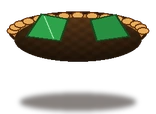
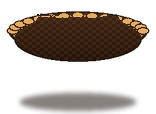
Gerai Wirayung: remove hanging sign, empty basket sits on the counter (#98)
The hanging Wirayung sign covered Wira's head; it is gone. The basket
back art had a green cloth inside that read as items before anything
was picked; its inside is now plain weave. The basket now rests on the
counter top instead of sinking into it, and is a little smaller on
short screens so it clears Wira's face.

Claude-Session: https://claude.ai/code/session_01NDkK8jKpLro5Z4Nutr1Mm2

diff --git a/gerai-wirayung.html b/gerai-wirayung.html
@@ -55,11 +55,6 @@ button:focus-visible{outline:3px solid var(--ice);outline-offset:2px}
 .tint{position:absolute;inset:0;pointer-events:none;mix-blend-mode:multiply;transition:background 1.2s,opacity 1.2s}
 .awning{position:absolute;top:0;left:-6px;right:-6px;height:46px;z-index:4;background:repeating-linear-gradient(90deg,#e8604f 0 34px,#fff1d6 34px 68px);-webkit-mask:radial-gradient(circle 17px at 17px 29px,#000 98%,transparent) 0 0/34px 46px repeat-x,linear-gradient(#000,#000) 0 0/100% 29px no-repeat;mask:radial-gradient(circle 17px at 17px 29px,#000 98%,transparent) 0 0/34px 46px repeat-x,linear-gradient(#000,#000) 0 0/100% 29px no-repeat;filter:drop-shadow(0 4px 0 #0003)}
 .awning-rod{position:absolute;top:0;left:0;right:0;height:9px;z-index:5;background:linear-gradient(180deg,var(--wood-lt),var(--wood-dk))}
-.sign{position:absolute;z-index:5;top:30px;left:12px;padding:5px 12px 6px;background:linear-gradient(180deg,#b97943,#6c351a);border:3px solid #f6d48d;border-radius:9px;transform:rotate(-4deg);box-shadow:inset 0 0 0 1px #fff2b2aa,0 5px 0 #3b2116aa,0 0 18px #ffd87855}
-.sign b{font:800 13px/1 var(--f-display);color:#ffefb8;letter-spacing:.5px}
-.sign::before,.sign::after{content:"";position:absolute;top:-30px;width:2px;height:30px;background:#5e3519}
-.sign::before{left:16px}.sign::after{right:16px}
-.sign{transform-origin:50% -22px;animation:signSway 3.8s ease-in-out infinite}
 
 /* Warm, slow-moving market glints add life without covering the play area. */
 .scene-motes{position:absolute;z-index:3;inset:0;overflow:hidden;pointer-events:none}
@@ -85,7 +80,7 @@ button:focus-visible{outline:3px solid var(--ice);outline-offset:2px}
 .counter{position:absolute;z-index:4;left:0;bottom:0;width:73%;height:90px;background:repeating-linear-gradient(90deg,transparent 0 62px,#0000001f 62px 64px),linear-gradient(180deg,#e2a466 0 10px,var(--wood) 10px,#7b4520);border-top:4px solid #f0bf82;border-right:4px solid var(--wood-dk);border-radius:0 10px 0 0;box-shadow:inset 0 10px 0 #ffffff22,0 -5px 16px #1b130d44;transform:perspective(620px) rotateX(1deg);transform-origin:bottom}
 .counter::before{content:"";position:absolute;left:-4px;right:-4px;top:-10px;height:13px;border:2px solid #85502a;border-radius:10px 10px 3px 3px;background:linear-gradient(180deg,#f7ca8d,#c78649);box-shadow:0 3px 4px #33211455}
 .counter::after{content:"";position:absolute;left:10px;right:14px;top:22px;height:2px;background:#0000002a;box-shadow:0 18px #0000002a}
-.basket{position:absolute;z-index:4;left:clamp(98px,48cqh,128px);bottom:32px;width:80px;height:54px}
+.basket{position:absolute;z-index:4;left:clamp(98px,48cqh,128px);bottom:84px;width:80px;height:54px}
 .basket-back,.basket-front{position:absolute;left:-9px;bottom:-7px;width:98px;height:72px;object-fit:contain;pointer-events:none}
 .basket-back{z-index:0}.basket-front{z-index:2}
 .basket .in{position:absolute;z-index:1;left:4px;right:4px;bottom:20px;display:flex;justify-content:center;align-items:flex-end;gap:0}
@@ -258,7 +253,6 @@ button:focus-visible{outline:3px solid var(--ice);outline-offset:2px}
 @keyframes rise{from{transform:translateY(40px);opacity:0}to{transform:none;opacity:1}}
 @keyframes marketDrift{0%{transform:scale(1.05) translate3d(-1.1%,.35%,0)}100%{transform:scale(1.105) translate3d(1.1%,-.55%,0)}}
 @keyframes marketMote{0%,100%{opacity:0;transform:translate3d(0,18px,0) scale(.45)}25%,74%{opacity:.88}50%{opacity:1;transform:translate3d(15px,-30px,0) scale(1.25)}}
-@keyframes signSway{0%,100%{transform:rotate(-5deg)}50%{transform:rotate(-1.8deg) translateY(2px)}}
 @keyframes lanternSway{from{rotate:-4deg;filter:brightness(.95)}to{rotate:4deg;filter:brightness(1.18)}}
 @keyframes petBounce3d{0%,100%{transform:translateY(0) rotate(0) scale(1)}50%{transform:translateY(-9px) rotate(1.2deg) scale(1.025)}}
 @keyframes wiraGleam{0%,78%,100%{filter:drop-shadow(0 5px 4px #10253688) brightness(1)}87%{filter:drop-shadow(0 8px 9px #f7ca5488) brightness(1.09)}}
@@ -274,7 +268,7 @@ button:focus-visible{outline:3px solid var(--ice);outline-offset:2px}
  .wira{width:clamp(120px,28cqh,170px)}
  .customer{width:clamp(155px,38cqh,230px)}
  .counter{width:62%;height:104px}
- .basket{left:clamp(160px,38%,300px);bottom:45px}
+ .basket{left:clamp(160px,38%,300px);bottom:98px}
  .panel{padding-left:25px;padding-right:25px}
  .hud{padding:10px 24px}
  .banner{padding-left:25px;padding-right:25px}
@@ -299,8 +293,8 @@ button:focus-visible{outline:3px solid var(--ice);outline-offset:2px}
 main.pa-game .scene{--waist:90px;--belt:.55;--aspect:1.5;--ww:clamp(100px,58cqh,150px)}
 .pa-game .scene .basket{left:calc(var(--ww) * .93)}
 @media (min-width:720px){main.pa-game .scene{--waist:104px}}
-/* Short screens: a lower counter keeps Wira in view; the hanging sign would cover his head. */
-@media (max-height:700px){main.pa-game .scene{--waist:58px;--ww:96px}.pa-game .scene .counter{height:58px}.pa-game .scene .basket{bottom:12px}.pa-game .scene .sign{display:none}}</style></head><body>
+/* Short screens: a lower counter keeps Wira in view. The basket sits on the counter top. */
+@media (max-height:700px){main.pa-game .scene{--waist:58px;--ww:96px}.pa-game .scene .counter{height:58px}.pa-game .scene .basket{bottom:52px;left:calc(var(--ww) * 1.05);scale:.8;transform-origin:50% 100%}}</style></head><body>
 
 <main class="pa-game" id="game" aria-label="Gerai Wirayung">
   <header class="hud">
@@ -314,7 +308,6 @@ main.pa-game .scene{--waist:90px;--belt:.55;--aspect:1.5;--ww:clamp(100px,58cqh,
     <div class="scene-motes" aria-hidden="true"><i></i><i></i><i></i><i></i><i></i></div>
     <div class="market-lanterns" aria-hidden="true"><i></i><i></i></div>
     <div class="awning-rod"></div><div class="awning"></div>
-    <div class="sign"><b>Wirayung</b></div>
     <div class="wira" id="wira"><img id="wiraImg" src="assets/minigames/kedai-ajaib/wira-peniaga-idle.webp" alt="Wira menjaga Gerai Wirayung"></div>
     <div class="counter"></div>
     <div class="basket" id="basket" aria-label="Beg pesanan"><img class="basket-back" src="assets/minigames/gerai-wirayung/premium/item-bakul-back.webp" alt=""><div class="in" id="basketIn"></div><img class="basket-front" src="assets/minigames/gerai-wirayung/premium/item-bakul-front.webp" alt=""></div>

diff --git a/js/asset-manifest.js b/js/asset-manifest.js
@@ -365,7 +365,7 @@ self.PA_ASSET_MANIFEST=Object.freeze({
[8 lines of base64/hex data omitted]

diff --git a/js/version.js b/js/version.js
@@ -1,6 +1,6 @@
 /* Pahlawan Angka — single source of truth for release version.
    Future releases should bump ONLY this value. */
-globalThis.PA_APP_VERSION='3.87.23';
+globalThis.PA_APP_VERSION='3.87.24';
 
 (function syncVersionUi(){
   if(typeof document==='undefined')return;
